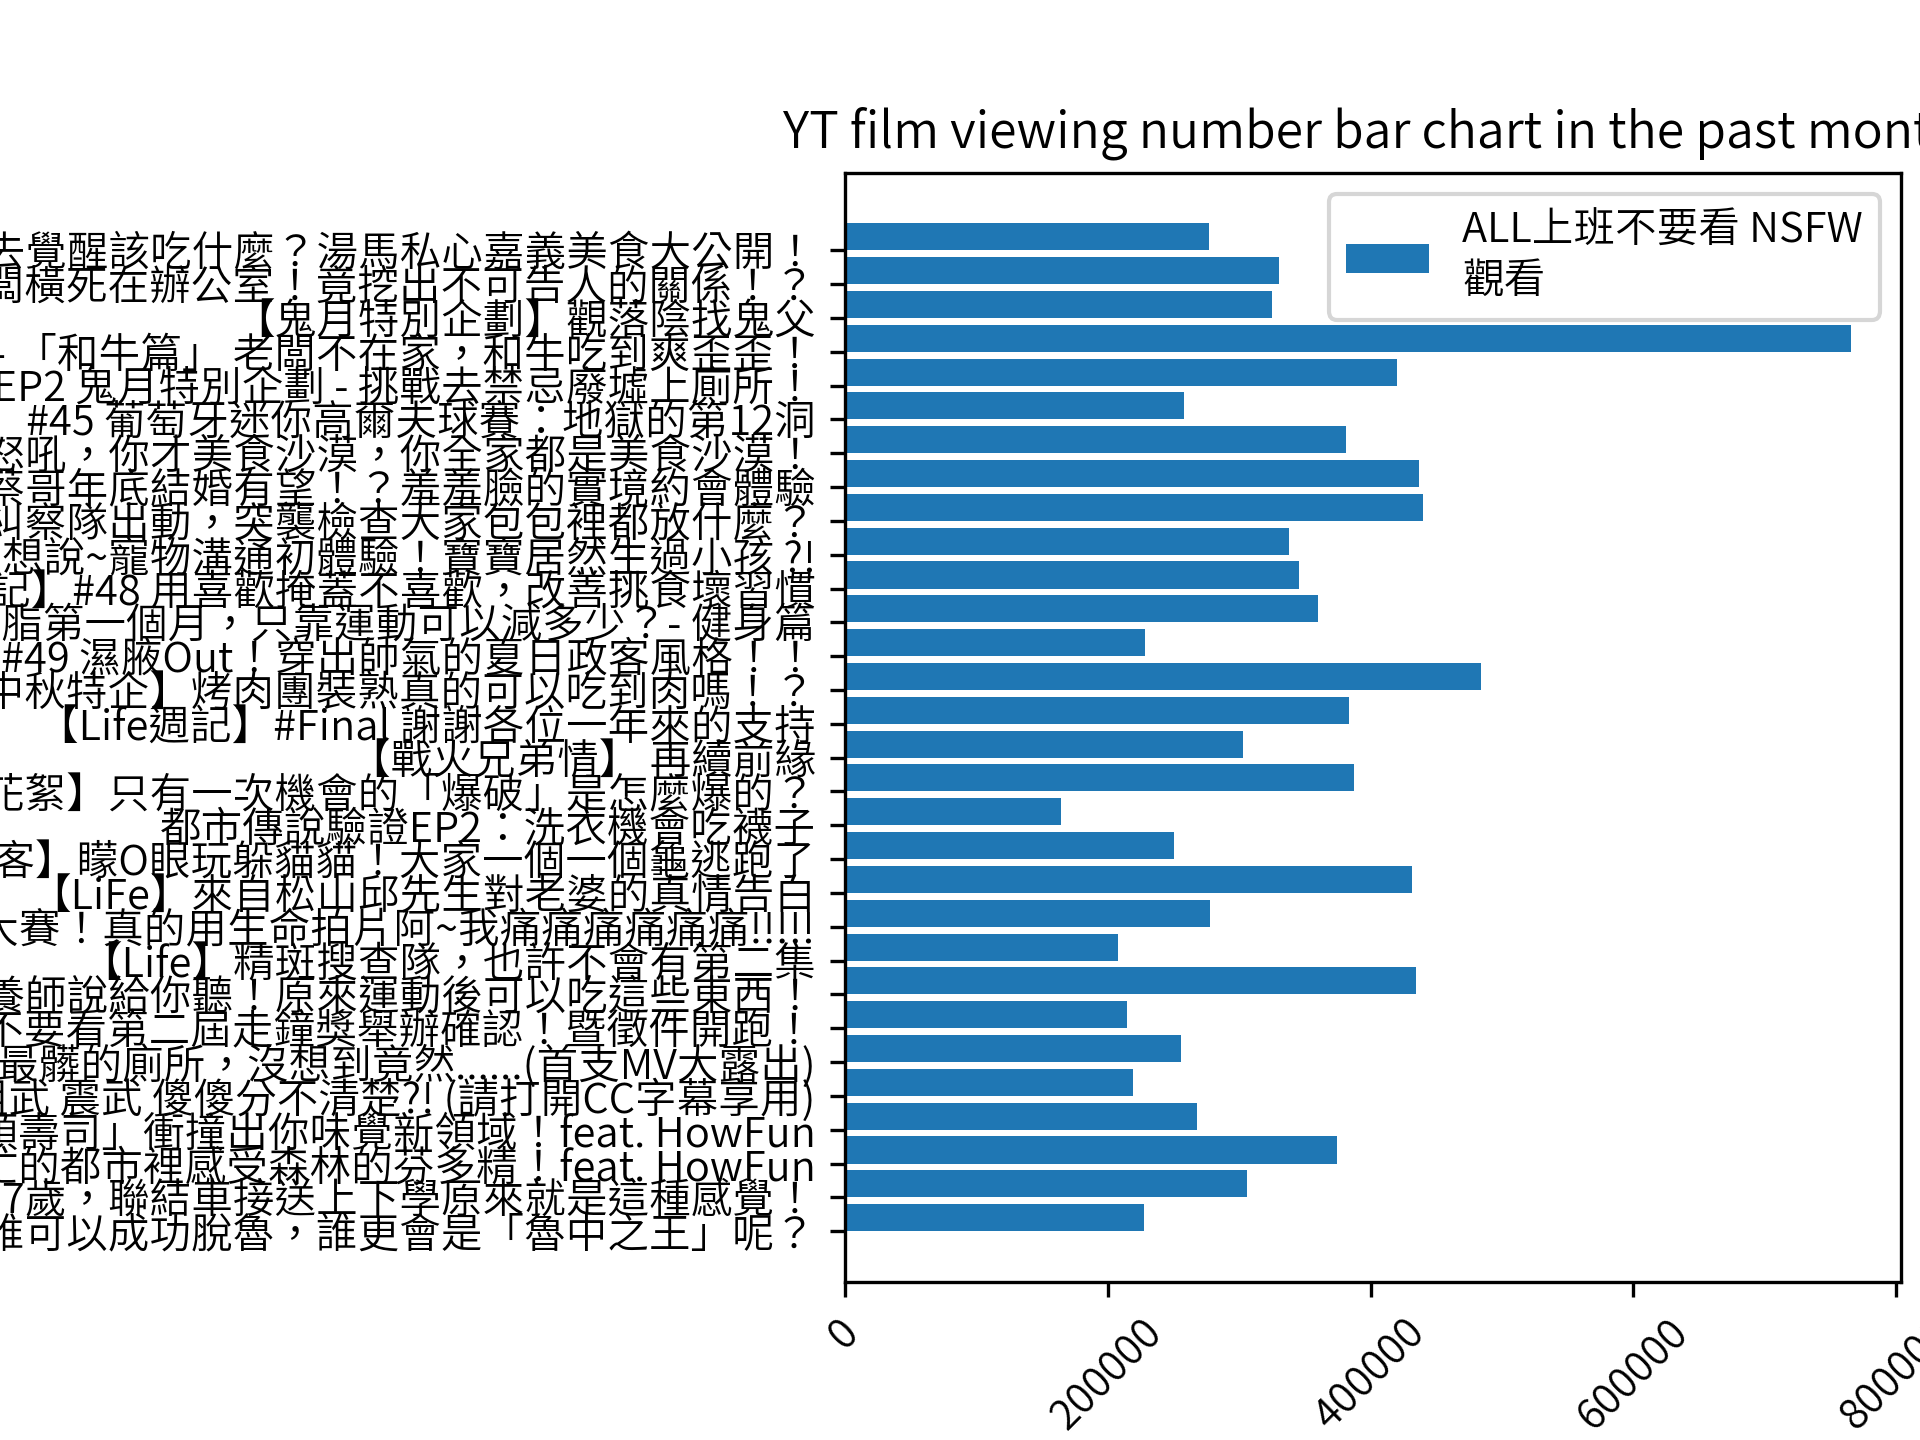
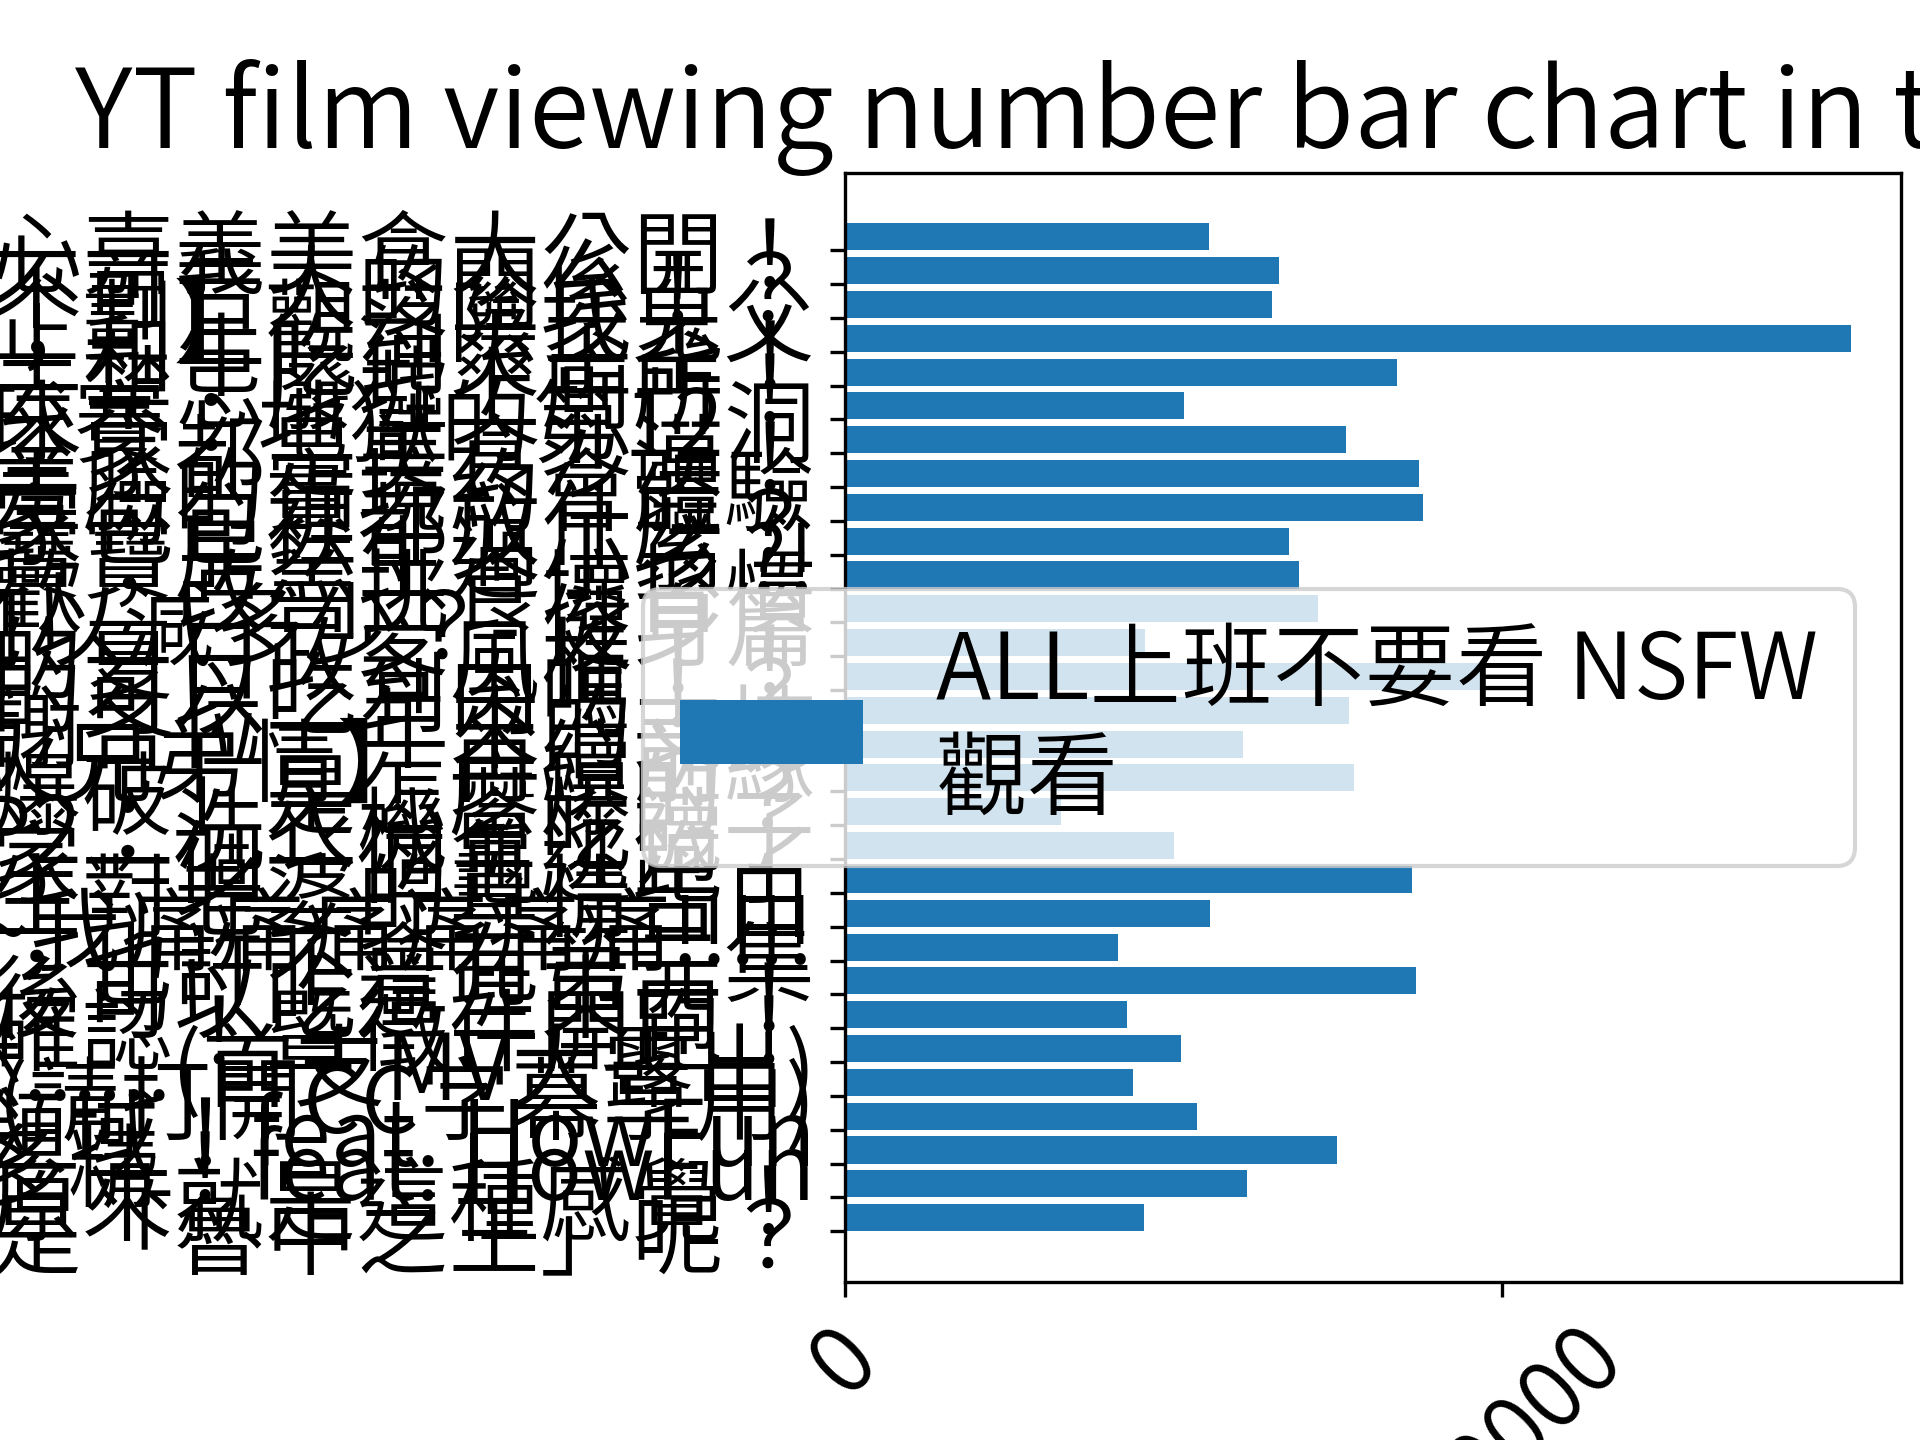
SHup20191111 Version = 9no msg!

diff --git a/yt.py b/yt.py
@@ -104,7 +104,7 @@ print(pppcounter)
 
 path='/usr/share/fonts/opentype/SourceHanSansTC-Normal.otf'
 prop = font_manager.FontProperties(fname=path)
-matplotlib.rc('font', family=prop.get_name())
+matplotlib.rc('font', family=prop.get_name(),size=22)
 
 plt.barh(sel23, plist,label =ttltll, align = "edge")
 plt.xticks(rotation=45)
